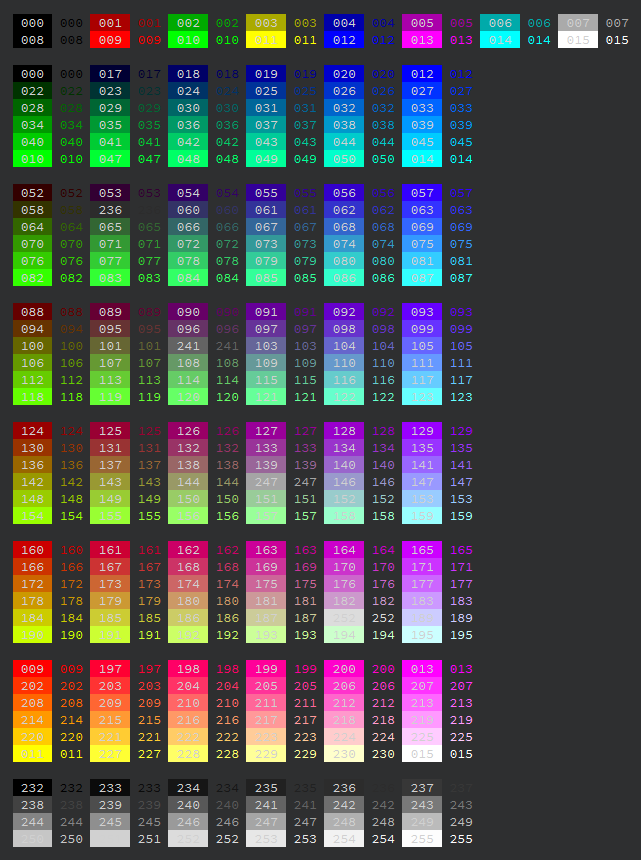
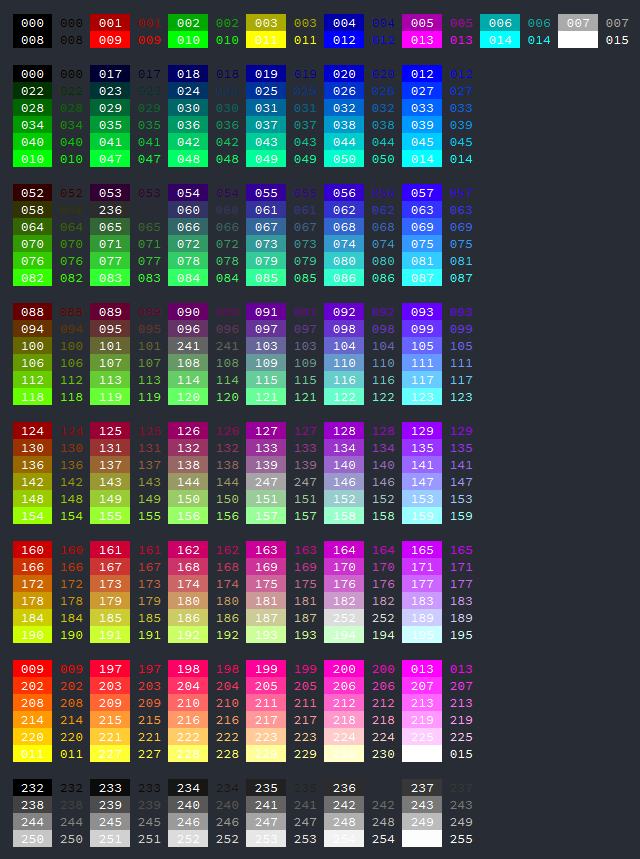
Set table text on bg to white and update graphics with one-dark bg

diff --git a/src/functions.cpp b/src/functions.cpp
@@ -183,8 +183,8 @@ void printColorTable( const bool foreground, const bool background )
         char idstr[ 4 ];
         std::snprintf( idstr, 4, "%03d", id );
 
-        const std::string bgstr = vivid::ansi::bg( id ) + " " + idstr + " " + vivid::ansi::reset;
-        const std::string fgstr = vivid::ansi::fg( id ) + " " + idstr + " " + vivid::ansi::reset;
+        const std::string bgstr = ansi::bg( id ) + ansi::white + " " + idstr + " " + ansi::reset;
+        const std::string fgstr = ansi::fg( id ) + " " + idstr + " " + ansi::reset;
 
         if ( ! background ) {
             return fgstr;

diff --git a/README.md b/README.md
@@ -227,7 +227,7 @@ std::cout << ansi::fg( 136 ) << "and tada, colorized font" << ansi::reset;
 
 To get an overview of all color codes or quickly check if your console has 8-bit color support, you can call `printColorTable()` (shoutout to Gawin [^4] for the layout idea).
 
-![colortable](docs/images/console/colortable.png)
+![colortable](docs/images/console/color-table.png)
 
 Escape codes can also be used in conjunction with `ColorMaps` to create some joyful effects.
 
